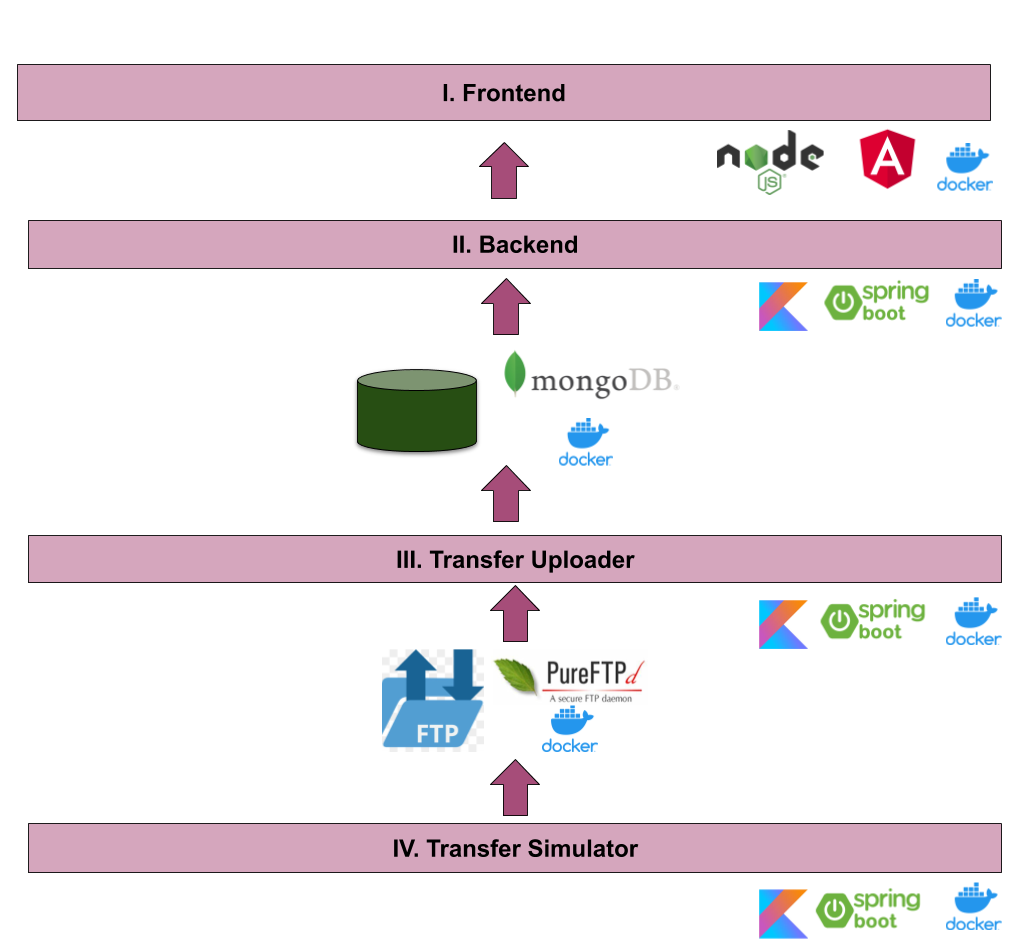
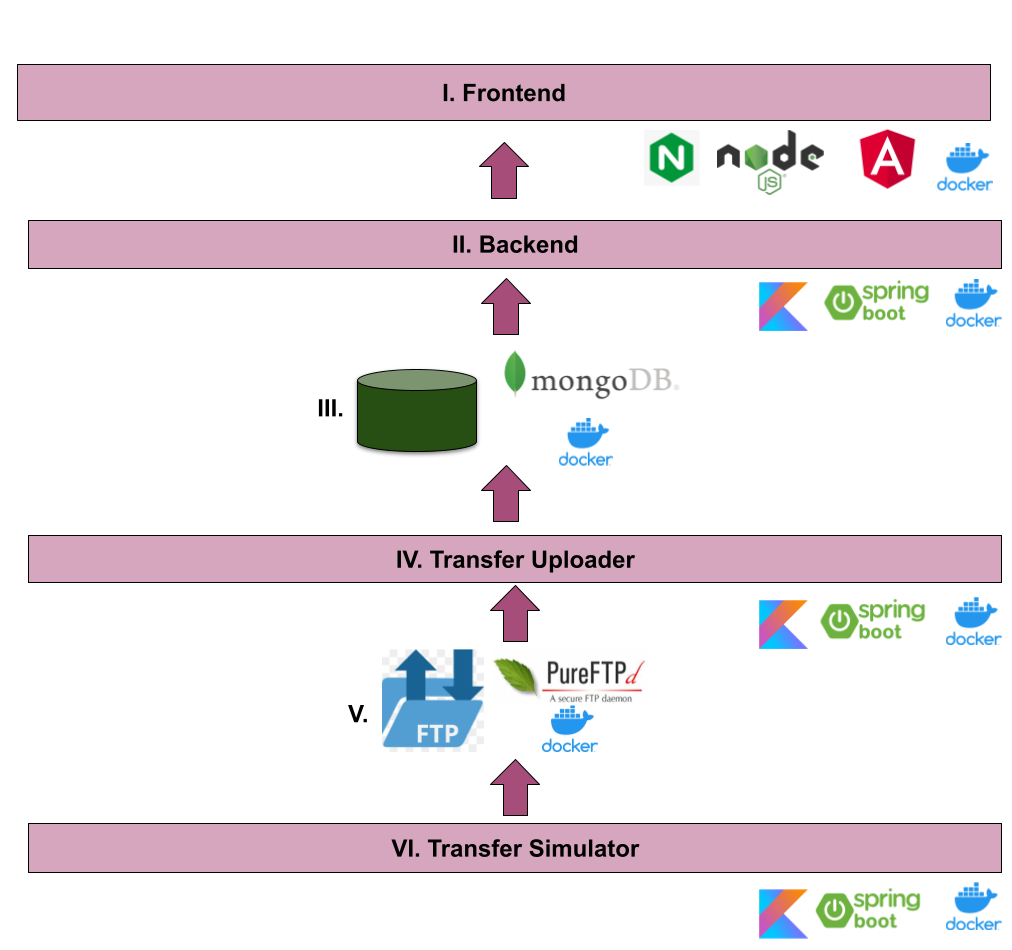
[feat] Finished README
* Complete readme.me
* Add an interesting comment in docker compose file
* Change design image to improve readability.

diff --git a/README.md b/README.md
@@ -1,12 +1,37 @@
 # Ninety-nine Code Challenge
 
+## Guide to testing this submission
+
+External dependencies:
+
+ * git
+ * docker
+ * docker-compose
+
+Download the project directly through git clone and use docker compose.
+
+ ```bash
+ git clone https://github.com/JTejedor/ninety-nine.git
+ cd ninety-nine
+ docker-compose -f ninety-nine.yml up
+  ```
+Enjoy ;-)
+
 ## Overview
 
-Ninety nine challenge has been a very interesting project to work with. Each component has been containerized and to gather all together the technology of docker compose has been used.
+Ninety nine challenge has been a very interesting project to work with. Each component has been containerized and to gather all components, the technology of docker compose has been used.
 
-As the main language of the backend and the following lower layers has been kotlin, using jvm in its version 11. It was a way to understand the technology used in Ninety Nine.
+As the main language of the backend and the following lower layers has been kotlin, using jvm in its version 11. It was a way to understand the technology used in Ninety Nine. I have spent more time than I thought at first, but I also think that I have been able to learn in order to participate as fast as possible in ninety nine (this has been a risky bet).
+
+As a build automation tool, I choose Gradle 6.6, I am not sure if ninenty-nine is using it right now, but I think is very intuitive, simple and with little learning curve.
 
 As frontend technology, Angular 9 is used because I have enough experience using this framework, to create quickly a proper and interesting view of the whole project.
+
+Finally, but not less important, as you can see, I choose git as version control system. Absolutely.
+
+I try to follow gitflow approach with github pull request to merge over develop and master (with just one reviewer, me). Creating branches for each new feature or to fix some problems, as gitflow suggested. I have emphasized my effort in the creation of the commit messages
+
+Clarification Note: Due the transfer uploader component (component to deploy transfers from FTP server to Mongo each 5 minutes) has an external dependency related to monetary exchange, in order to convert each currency in EUR, the initial deploy is a little bit slow, so I recommend wait 30 seconds or so, to query from the frontend. Anyway, press F5 to refresh until data is uploaded properly (sorry for this inconvenience).
 
 
 ## Design
@@ -15,11 +40,90 @@ As frontend technology, Angular 9 is used because I have enough experience using
 
 ## Implementation
 
- * Due the raw data could be very large, I prefer create a file with the transfer data instead of create a large string (avoid possible out memory problems and improve efficient memory consumption)
+Each component has been dockerized and updated as an image to a public repository called jtejedor/ninety-nine in docker hub. In each section, the component will be explained deeply and will be described its container
+
+### I. Frontend
+
+As I explain above in overview, the main framework to create this component has been Angular 9, in essence, this is it because I feel comfortable using it and there are plenty ready-to-use components based on this technology.
+
+The application has been separated into different views to facilitate decoupling of all views.
+
+In a nutshell, the parts of this frontend was:
+
+  * Charts to visualize properly how many transfers are received based on a certain time unit (day, time, year) in different ranges of time
+  * Custom component to visualize the best month hits in different ranges of time. To show the month with more received transfers and the month with the largest amount.
+  * A table to view the last transfers related to certain IBAN (the IBANs are collected asking directly to backend too).
+  * A final chart to view as pie chart how many currencies are. This component request for:
+     - The total of currencies to create random colors used in the pie slices
+     - The number of transfer of each currency to create the pie itself.
+
+The created docker container to host this component is based on node-alpine to build properly the application and a raw nginx-alpine without any additional configuration to deploy. It has no parameter and the open port is 4200
+
+### II. Backend
+
+  This component is created Kotlin 1.3.74 (not 1.4 recently updated - because Kotest has a problem calling certain component inside Kotlin that is not longer in use) and as framework, Springboot was chosen because I have a little bit experience using it. Anyway, it is a very complete framework, but, in my humble opinion, I think it has soooo many layers of abstraction.
+
+  In this components, some webflux reactive characteristics are used, such as reactive mongo template. But it is not a fully Springboot Reactive REST controller.
+  I could part this element in several docker containers but I think, this could be a little bit overkill, so I decline my first impulse (because I think this submission is already a bit overkill by itself).
+
+  This component has several endpoints to get all data related with this challenge, even some more.
+
+  The structure of of each component with all related endpoints is, as Spring suggests, a controller with the endpoints, a service to provide the logical management (if any) and the DAO to get the data properly with the former query or aggregation operation.
+
+  The created docker container is based in openjdk12-alpine and a jar created by gradle. The deploy in respository is automated (at project level).
+
+### III. MongoDB
+
+  The database is a mandatory request for this challenge, it is MongoDB, a NOSQL Database, I choose the last edition as image to deploy in docker-compose.
+  It has no sharding, even if I know how to perform, I think ninety nine is using Atlas, so, I think it is not needed.
+
+  To finish this section, I just comment that the collection "transfers" has several indexes to improve the queries using decoration capacity of spring in the next component.
+
+  As this container is linked directly with another related components (with link directive and share the same docker net), I prefer not expose any port.
+
+### IV. Transfer uploader
+
+  This component takes advantage of Springboot's ability to perform periodic tasks. So each 5 minutes this component queries for the latest files to upload new data in a FTP Server. This component also store in MongoDB some interesting data related with the success rate of each file and the global performance. Due to time, I have not been able to propagate this data as I initially thought to frontend.
+
+  Anyway, this component queries to mongodb wich files are already parsed, tries to parse any line of each transfer, add in transfers collections and it finalizes writing meta data related with this file in mongodb.
+
+  This component considers all the assumptions exposed in the challenge, badly formed information where any field can be incomplete, contains empty lines or with just noise. The amount related with the currency could be in third o five position, so this component also takes into account and explores for both possibilities.
+
+  The timestamp of each transfer is the original name of the file reformatted to transform in LocalDateTime.
+
+  Finally, to maintain consistency in the sum of transfer amounts, an additional field is created to store the conversion to euros of that amount. Otherwise, it was too expensive to convert from a mongo query or meaningless amounts would be added. As consequence, an external dependency, to perform properly the exchange, is added, [JSR 354](https://jcp.org/en/jsr/detail?id=354).
+
+### V. FTP server
+
+  This is another request for this challenge, create a FTP server in your machine or anyway to upload files with the required characteristics. A ftp container was chosen to deploy together with rest of components. The selected FTP Server was an image of [pure ftpd server](https://www.pureftpd.org/project/pure-ftpd/) with capacity for 5 simultaneous clients and a single registered user.
+
+  I prefer left a persistent volume in /tmp/ftp-data to facilitate consecutive tests and to have enough data. its deletion is recommended after evaluate this submission.
+
+### VI. File FTP uploader
+
+  This initial component was implemented to create random files with configurable failure rates. This component create a file with a transfer per line.
+
+  This is probably the least important component, but it has been a lot of fun to create a consistent and random process that maintains acceptable success rates.
+
+  To avoid large memory loads, a file is created and then uploaded to the server, instead of creating everything in memory.  
+
+  Some aspects to consider in the random creation:
+
+  * For each random NIF (I consider a person) 4 random IBAN are created and associate to its NIF in the initialization phase of this component. So, in this way, the IBAN will be repeated, such as its related NIF to create each line-transfer.
+  * The number of people is configurable too.
+  * There is a possibility to fail for each part of the transfer-line (configurable).
+  * There is a possibility to fail for each transfer (configurable also).
+  * The amount related with the transfer change of position randomly third or five position (configurable).
+  * The currencies are also configurable by environment variable.
+
+ To know which parameter are involved in the random creation, see ninenity-nine.yml file
 
 ## Conclusions
-* I spend more than usual because I use technologies that I am not familiar with, such us Gradle (I have used Maven and more recently I use C++ Conan and CMake deeply)
-* A very good ideas would be automatize the entire product over a new release (a tag in github over master branch) to autodeploy in docker hub a new image using CircleCI or Travis.
-* I would perform more unit test to ensure a better fullfilment, but due to time, I have left only a symbolic record to ensure I could perform test and I understand the full software life cycle
-* I assume that the maintenance of the ftp server is performed by the banking partner, so the deletion of files to maintain a good health of the server (hard disk overflow) is out of scope.
-* FTP Server has several persistent volumes, I suggest erase tmp/ftp-* after evaluate with this challenge.
+
+* A very good idea would be automatize the entire product over a new release (a tag in github over master branch) to autodeploy in docker hub a new image using CircleCI or Travis through "gradlelizing" the whole project, i.e., using Gradle as unique project manager to gather the global configuration of all components.
+
+* I would perform more unit test to ensure a better fulfillment, but due to time, I have left only a symbolic record to ensure I could perform test and I understand the full software life cycle.
+
+* I spend more than usual because I use technologies that I am not familiar with, such us Gradle (I have used Maven and more recently I have used C++ Conan and CMake).
+
+* There is another reason for my delay, this is a very complete submission, which seeks to surprise for its good quality, but I do not know if I will achieve, because I have also had to use tools that I am not used to and I have exceeded the submission time. Or even my perception, as submitter is wrong.
